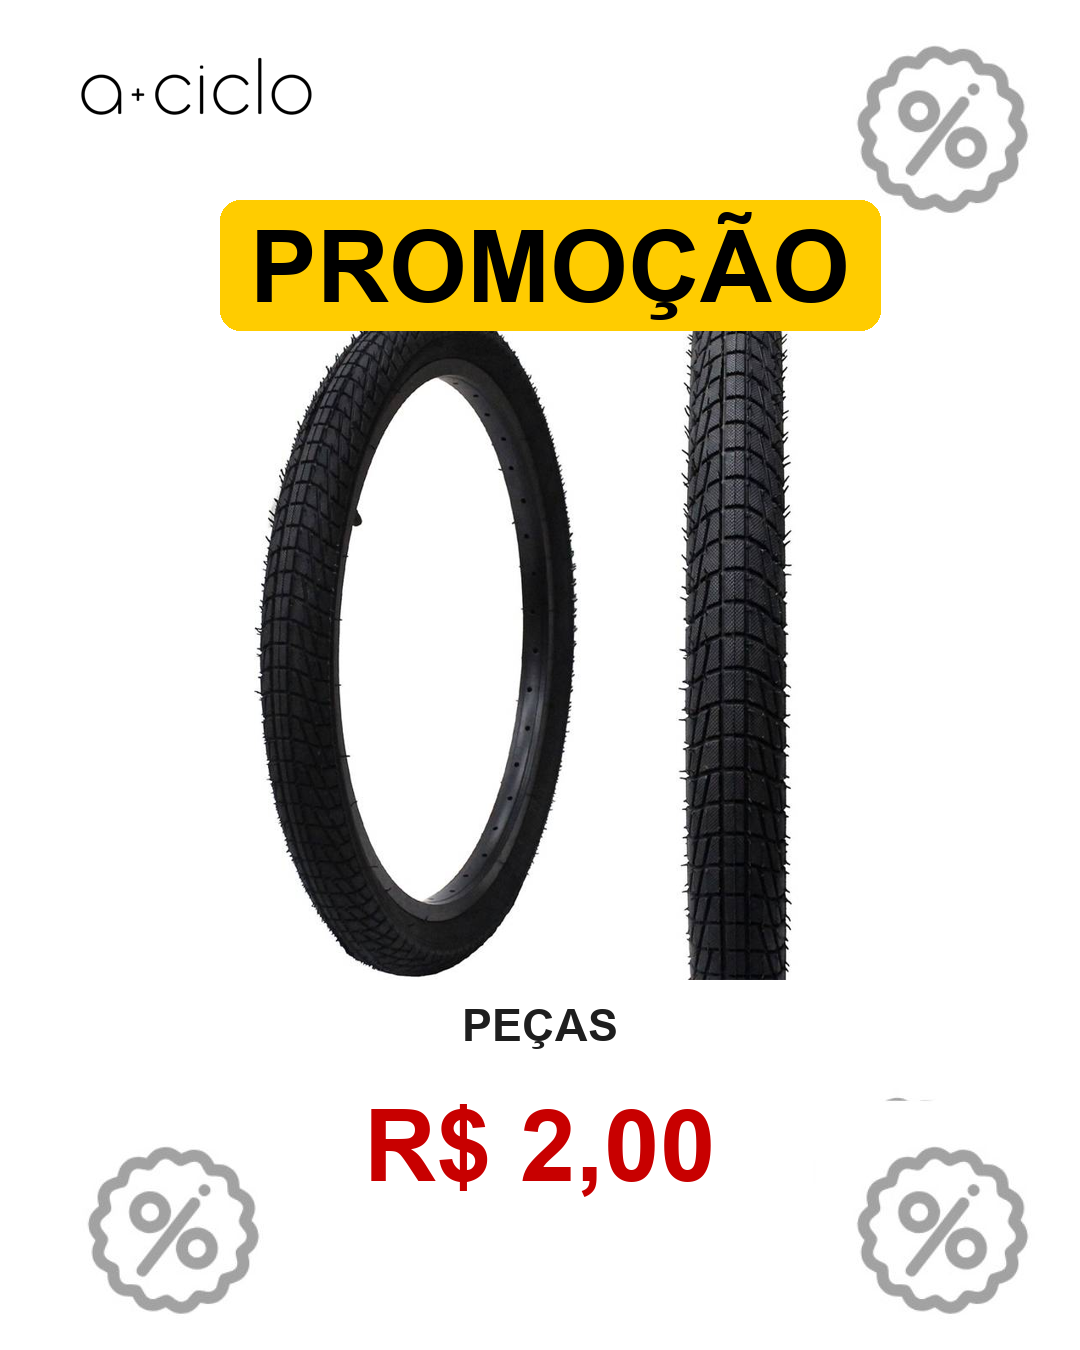
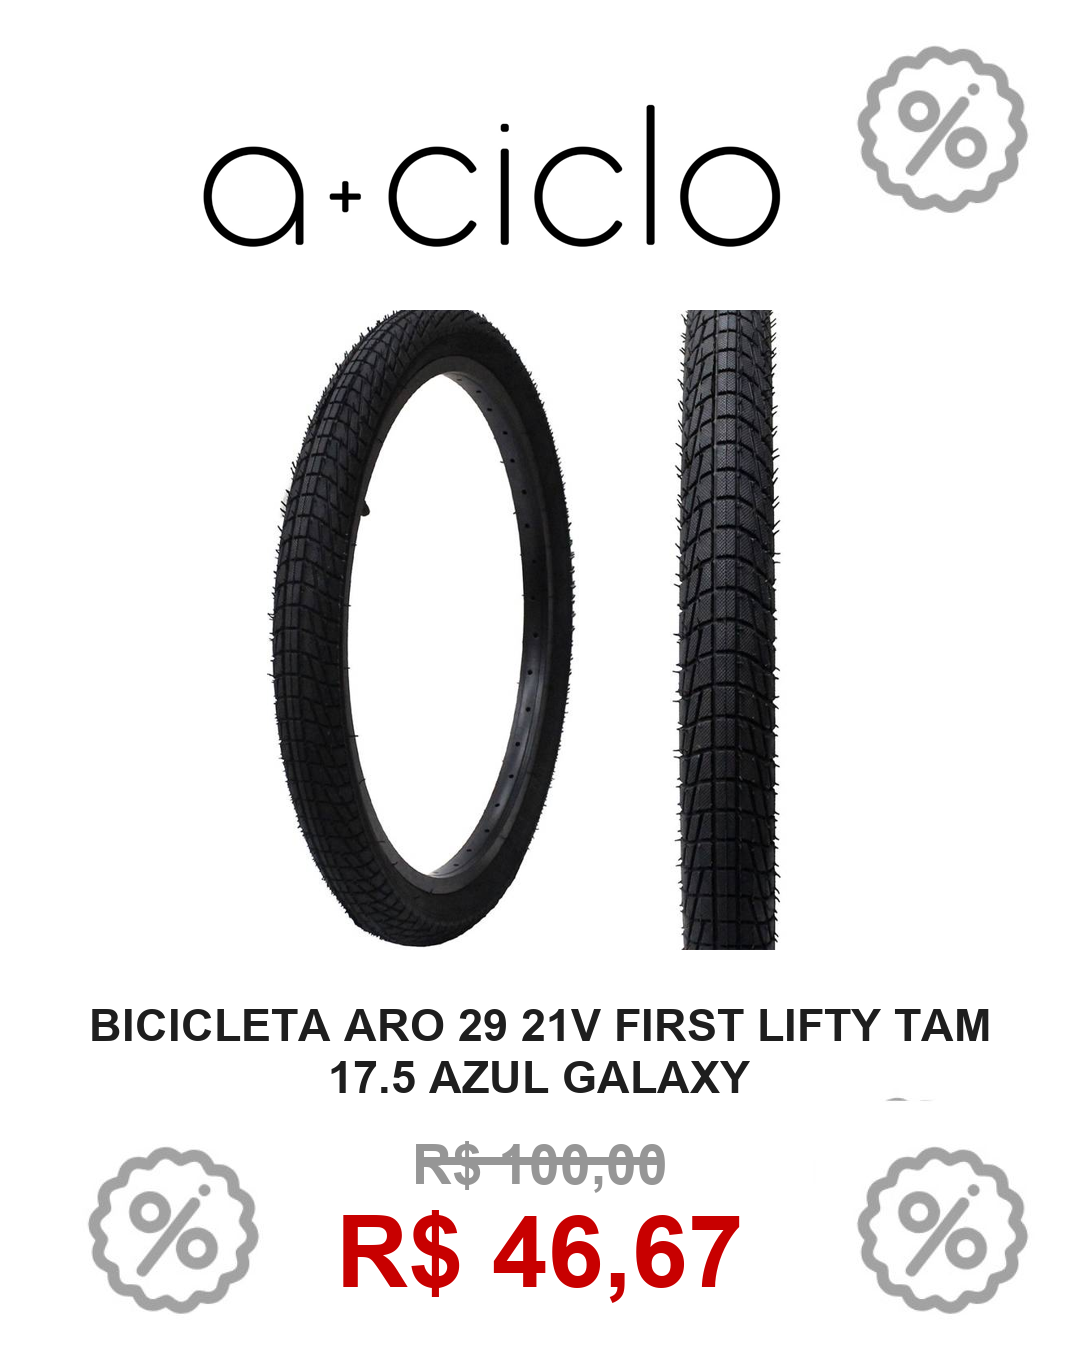
Alterações feitas

diff --git a/criar_imagem.py b/criar_imagem.py
@@ -1,6 +1,7 @@
 import pandas as pd
 from PIL import Image, ImageDraw, ImageFont
 import os
+import math # Para checar valores NaN de forma robusta
 
 # --- Configurações Principais ---
 ARQUIVO_EXCEL = 'promocoes.xlsx'
@@ -17,28 +18,23 @@ ALTURA_BANNER = 1350
 COR_FUNDO = 'white'
 
 # --- Configurações de Área ---
-ALTURA_IMAGEM_PRODUTO_MAX = 680
+ALTURA_IMAGEM_PRODUTO_MAX = 650
 Y_INICIO_AREA_TEXTO = 1000
 LARGURA_MAX_TEXTO = LARGURA_BANNER - 100 
 
 # --- Configurações de Texto e Cores ---
-COR_PRECO_DESTAQUE = (200, 0, 0) 
+COR_PRECO_DESTAQUE = (200, 0, 0) # Vermelho para o preço promocional
 COR_TEXTO_DESCRICAO = (30, 30, 30) 
+COR_PRECO_ANTIGO = (150, 150, 150) # Cinza para o preço riscado
 
-PADDING_LATERAL = 60 
+PADDING_LATERAL = 150 
 TEXT_LINE_SPACING = 20 
 
-# --- CONFIGURAÇÕES PARA O BANNER DE DESTAQUE "PROMOÇÃO" ---
-TEXTO_BANNER_DESTAQUE_PRINCIPAL = "PROMOÇÃO"
-COR_BANNER_DESTAQUE_PRINCIPAL = (255, 204, 0) # Amarelo vibrante
-COR_TEXTO_BANNER_DESTAQUE = 'black'
-
-ALTURA_DESTAQUE_PRINCIPAL = 130
-POS_X_DESTAQUE = 220 # Posição X inicial do banner principal (amarelo)
-POS_Y_DESTAQUE = 200 # Posição Y inicial do banner principal (amarelo) 
+# --- CONFIGURAÇÕES DE FONTE ---
 TAMANHO_FONTE_DESTAQUE_PRINCIPAL = 100
+TAMANHO_FONTE_PRECO_ANTIGO = 55 # Tamanho do preço riscado
 
-# --- Funções Auxiliares ---
+# --- Funções Auxiliais ---
 def get_text_dimensions(draw, text_string, font):
     """Retorna a largura e altura do texto usando draw.textbbox"""
     bbox = draw.textbbox((0, 0), text_string, font=font)
@@ -66,7 +62,6 @@ def wrap_text_to_fit(draw, text, font, max_width):
     lines.append(current_line.strip())
     return lines
 
-# --- FUNÇÃO: Colar o Logo de Imagem ---
 def colar_logo(banner, logo_path, max_height, x_pos, y_pos):
     """Carrega o logo, redimensiona e cola no banner."""
     if not os.path.exists(logo_path):
@@ -76,8 +71,10 @@ def colar_logo(banner, logo_path, max_height, x_pos, y_pos):
     try:
         logo = Image.open(logo_path).convert("RGBA")
         largura_original, altura_original = logo.size
+        # Mantém a proporção ao redimensionar para a altura máxima
         nova_largura = int(largura_original * (max_height / altura_original))
         logo = logo.resize((nova_largura, max_height))
+        # O logo precisa ser colado com o próprio logo como máscara (o 4º argumento) para transparência
         banner.paste(logo, (x_pos, y_pos), logo)
     except Exception as e:
         print(f"AVISO: Erro ao processar o logo: {e}")
@@ -89,8 +86,28 @@ def criar_banners_em_lote():
         os.makedirs(PASTA_SAIDA)
     
     try:
-        df = pd.read_excel(ARQUIVO_EXCEL, dtype={'codigo': str})
+        # ✅ LEITURA ROBUSTA: Lê código como string e preços como float, garantindo consistência.
+        df = pd.read_excel(
+            ARQUIVO_EXCEL, 
+            dtype={'codigo': str}, # Garantimos que o código é lido como string
+            converters={'valor_promocional': float, 'valor_original': float} 
+        )
+        
+        # Normaliza nomes das colunas
+        df.columns = df.columns.str.strip().str.lower()
+        
         print(f"Planilha '{ARQUIVO_EXCEL}' lida com sucesso. Total de {len(df)} promoções encontradas.")
+        
+        colunas_necessarias = ['codigo', 'descricao', 'valor_promocional']
+        for col in colunas_necessarias:
+            if col not in df.columns:
+                print(f"ERRO CRÍTICO: Coluna obrigatória '{col}' não encontrada no Excel.")
+                return
+
+        if 'valor_original' not in df.columns:
+            print("AVISO: Coluna 'valor_original' não encontrada no Excel. Apenas o preço promocional será exibido.")
+            df['valor_original'] = None 
+            
     except Exception as e:
         print(f"ERRO ao ler o Excel: Certifique-se que o arquivo '{ARQUIVO_EXCEL}' existe. Detalhe: {e}")
         return
@@ -99,12 +116,13 @@ def criar_banners_em_lote():
         font_path = NOME_FONTE
         fonte_descricao = ImageFont.truetype(font_path, 45) 
         fonte_valor = ImageFont.truetype(font_path, 100) 
-        # Fontes para os banners de destaque
+        fonte_preco_antigo = ImageFont.truetype(font_path, TAMANHO_FONTE_PRECO_ANTIGO) 
         fonte_destaque_principal = ImageFont.truetype(font_path, TAMANHO_FONTE_DESTAQUE_PRINCIPAL)
     except IOError:
         print(f"AVISO: Fonte '{NOME_FONTE}' não encontrada. Usando fonte padrão. Tente 'arial.ttf'.")
         fonte_descricao = ImageFont.load_default()
         fonte_valor = ImageFont.load_default()
+        fonte_preco_antigo = ImageFont.load_default() 
         fonte_destaque_principal = ImageFont.load_default()
 
 
@@ -114,15 +132,43 @@ def criar_banners_em_lote():
     for index, dados_promo in df.iterrows():
         codigo_produto = None
         try:
+            # --- 1. TRATAMENTO ROBUSTO DO CÓDIGO DO PRODUTO (Corrigido) ---
             if pd.notna(dados_promo['codigo']):
-                codigo_produto = str(dados_promo['codigo']).replace(',', '.') 
+                codigo_str = str(dados_promo['codigo']).strip()
+                
+                # Caso o pandas leia o código como float (ex: '83.0')
+                if codigo_str.endswith('.0'):
+                    codigo_produto = codigo_str[:-2]
+                else:
+                    codigo_produto = codigo_str
             else:
                 codigo_produto = f"ITEM_{index}"
+            
+            # Checa se o código está vazio após o tratamento
+            if not codigo_produto:
+                 print(f"AVISO (Linha {index+2}): Código de produto vazio após tratamento. Pulando.")
+                 continue
 
             descricao_original = str(dados_promo['descricao']).upper().strip()
+            
+            # --- 2. TRATAMENTO ROBUSTO DOS VALORES (Preço) ---
             valor_float = dados_promo['valor_promocional']
             valor_exibicao = f"R$ {valor_float:.2f}".replace('.', ',')
             
+            valor_original_exibicao = None
+            valor_original_float = dados_promo.get('valor_original')
+            
+            # Condição para mostrar o preço antigo: 
+            # Deve ser um número válido, maior que zero E maior que o promocional.
+            if (
+                pd.notna(valor_original_float) and 
+                not math.isnan(valor_original_float) and 
+                valor_original_float > 0 and 
+                valor_original_float > valor_float
+            ):
+                valor_original_exibicao = f"R$ {valor_original_float:.2f}".replace('.', ',')
+            
+            # --- 3. BUSCA ROBUSTA DA IMAGEM ---
             caminho_imagem_base = None
             for ext in EXTENSOES_POSSIVEIS:
                 nome_tentativa = f"{codigo_produto}.{ext}"
@@ -132,91 +178,61 @@ def criar_banners_em_lote():
                     break 
                     
             if caminho_imagem_base is None:
-                print(f"ERRO (Linha {index+2} - Código {codigo_produto}): Imagem não encontrada.")
+                # Agora o erro deve indicar exatamente qual código NÃO FOI ENCONTRADO
+                print(f"ERRO (Linha {index+2} - Código '{codigo_produto}'): Imagem não encontrada. Verifique se o arquivo '{codigo_produto}.(ext)' existe na pasta '{PASTA_IMAGENS_BASE}'.")
                 continue
             
+            # --- Criação do Banner e Fundo --- (Mantido)
             banner_final = None
             try:
-                # Tenta abrir o arquivo de fundo
                 img_fundo = Image.open(IMAGEM_FUNDO_FILE).convert("RGB")
-                
-                # Redimensiona para cobrir todo o banner (Mantém a proporção e corta as bordas)
                 proporcao_banner = LARGURA_BANNER / ALTURA_BANNER
                 proporcao_fundo = img_fundo.width / img_fundo.height
                 
                 if proporcao_fundo > proporcao_banner:
-                    # Fundo é mais largo, redimensiona pela altura
                     nova_altura = ALTURA_BANNER
                     nova_largura = int(img_fundo.width * (nova_altura / img_fundo.height))
                     img_fundo = img_fundo.resize((nova_largura, nova_altura))
-                    # Centraliza
                     x_corte = (nova_largura - LARGURA_BANNER) // 2
                     img_fundo = img_fundo.crop((x_corte, 0, x_corte + LARGURA_BANNER, ALTURA_BANNER))
                 else:
-                    # Fundo é mais alto, redimensiona pela largura
                     nova_largura = LARGURA_BANNER
                     nova_altura = int(img_fundo.height * (nova_largura / img_fundo.width))
                     img_fundo = img_fundo.resize((nova_largura, nova_altura))
-                    # Centraliza
                     y_corte = (nova_altura - ALTURA_BANNER) // 2
                     img_fundo = img_fundo.crop((0, y_corte, LARGURA_BANNER, y_corte + ALTURA_BANNER))
                     
                 banner_final = img_fundo.copy()
-                print(f"Fundo '{IMAGEM_FUNDO_FILE}' adicionado.")
 
             except FileNotFoundError:
-                # Caso o arquivo não exista, usa a cor sólida
-                print(f"AVISO: Arquivo de fundo '{IMAGEM_FUNDO_FILE}' não encontrado. Usando cor sólida.")
                 banner_final = Image.new('RGB', (LARGURA_BANNER, ALTURA_BANNER), color=COR_FUNDO)
-            except Exception as e:
-                print(f"ERRO ao carregar/redimensionar fundo: {e}. Usando cor sólida.")
+            except Exception:
                 banner_final = Image.new('RGB', (LARGURA_BANNER, ALTURA_BANNER), color=COR_FUNDO)
 
 
             draw = ImageDraw.Draw(banner_final)
             
-            # 6. Colocando a Imagem do Produto
+            # Colocando a Imagem do Produto e Logo
             img_produto = Image.open(caminho_imagem_base).convert("RGB")
             img_produto.thumbnail((LARGURA_BANNER, ALTURA_IMAGEM_PRODUTO_MAX))
             x_img_centralizada = (LARGURA_BANNER - img_produto.width) // 2
-            # ⬆ CORREÇÃO PRINCIPAL AQUI: Mais espaço no topo para a logo
             y_img_centralizada = 300 
             banner_final.paste(img_produto, (x_img_centralizada, y_img_centralizada))
-            
-            # 7. Colocando o Logo de Imagem (Canto Superior Esquerdo)
-            # ⬇ y_pos mantido para aparecer no topo, agora não será mais coberto
+    
             colar_logo(
                 banner_final, 
                 LOGO_AMAISCICLO_FILE, 
-                max_height=100,  
+                max_height=250,
                 x_pos=PADDING_LATERAL, 
-                y_pos=40
-            )
-
-            # --- Desenha o Banner de Destaque "PROMOÇÃO" ---
-            # ⬇ POSIÇÕES AJUSTADAS para o banner de destaque, para não colidir com o logo
-            text_promo_w, text_promo_h = get_text_dimensions(draw, TEXTO_BANNER_DESTAQUE_PRINCIPAL, fonte_destaque_principal)
-            
-            x1_amarelo = POS_X_DESTAQUE
-            y1_amarelo = POS_Y_DESTAQUE
-            x2_amarelo = x1_amarelo + text_promo_w + 60 
-            y2_amarelo = y1_amarelo + ALTURA_DESTAQUE_PRINCIPAL
-            
-            draw.rounded_rectangle(
-                (x1_amarelo, y1_amarelo, x2_amarelo, y2_amarelo),
-                radius=20, 
-                fill=COR_BANNER_DESTAQUE_PRINCIPAL
+                y_pos=60
             )
             
-            x_text_promo = x1_amarelo + (x2_amarelo - x1_amarelo - text_promo_w) // 2
-            y_text_promo = y1_amarelo + (ALTURA_DESTAQUE_PRINCIPAL - text_promo_h) // 2
-            desenhar_texto(draw, (x_text_promo, y_text_promo), TEXTO_BANNER_DESTAQUE_PRINCIPAL, fonte_destaque_principal, COR_TEXTO_BANNER_DESTAQUE)
-
-            # --- 8. Área de Descrição e Preço (Rodapé) ---
+            # --- Área de Descrição e Preço (Rodapé) ---
             linhas_descricao = wrap_text_to_fit(draw, descricao_original, fonte_descricao, LARGURA_MAX_TEXTO)
             
             current_y = Y_INICIO_AREA_TEXTO
             
+            # Desenha a descrição
             for line in linhas_descricao:
                 line_w, line_h = get_text_dimensions(draw, line, fonte_descricao)
                 x_descricao = (LARGURA_BANNER - line_w) // 2 
@@ -224,7 +240,28 @@ def criar_banners_em_lote():
                 current_y += line_h + TEXT_LINE_SPACING
             
             y_inicio_preco = current_y + 30 
+            
+            # 🌟 DESENHA O PREÇO ORIGINAL (RISCADO) 🌟
+            if valor_original_exibicao:
+                texto_w_antigo, texto_h_antigo = get_text_dimensions(draw, valor_original_exibicao, fonte_preco_antigo)
+                
+                x_antigo = (LARGURA_BANNER - texto_w_antigo) // 2 
+                y_antigo = y_inicio_preco
+                
+                # Desenha o texto do preço antigo
+                desenhar_texto(draw, (x_antigo, y_antigo), valor_original_exibicao, fonte_preco_antigo, COR_PRECO_ANTIGO)
+                
+                # Desenha a linha de risco
+                x_linha1 = x_antigo + 5 
+                y_linha = y_antigo + texto_h_antigo // 2
+                x_linha2 = x_antigo + texto_w_antigo - 5
+                
+                draw.line([(x_linha1, y_linha), (x_linha2, y_linha)], fill=COR_PRECO_ANTIGO, width=8)
+                
+                # Ajusta o Y inicial para o preço promocional ficar abaixo do riscado
+                y_inicio_preco += texto_h_antigo + 10 
 
+            # DESENHA O PREÇO PROMOCIONAL (NOVO)
             texto_w_valor, texto_h_valor = get_text_dimensions(draw, valor_exibicao, fonte_valor)
             
             x_valor = (LARGURA_BANNER - texto_w_valor) // 2 
@@ -232,7 +269,7 @@ def criar_banners_em_lote():
             
             desenhar_texto(draw, (x_valor, y_valor), valor_exibicao, fonte_valor, COR_PRECO_DESTAQUE)
             
-            # 9. Salvando o Banner
+            # Salvando o Banner
             caminho_saida = os.path.join(PASTA_SAIDA, f"banner_{codigo_produto}.png")
             banner_final.save(caminho_saida)
             
